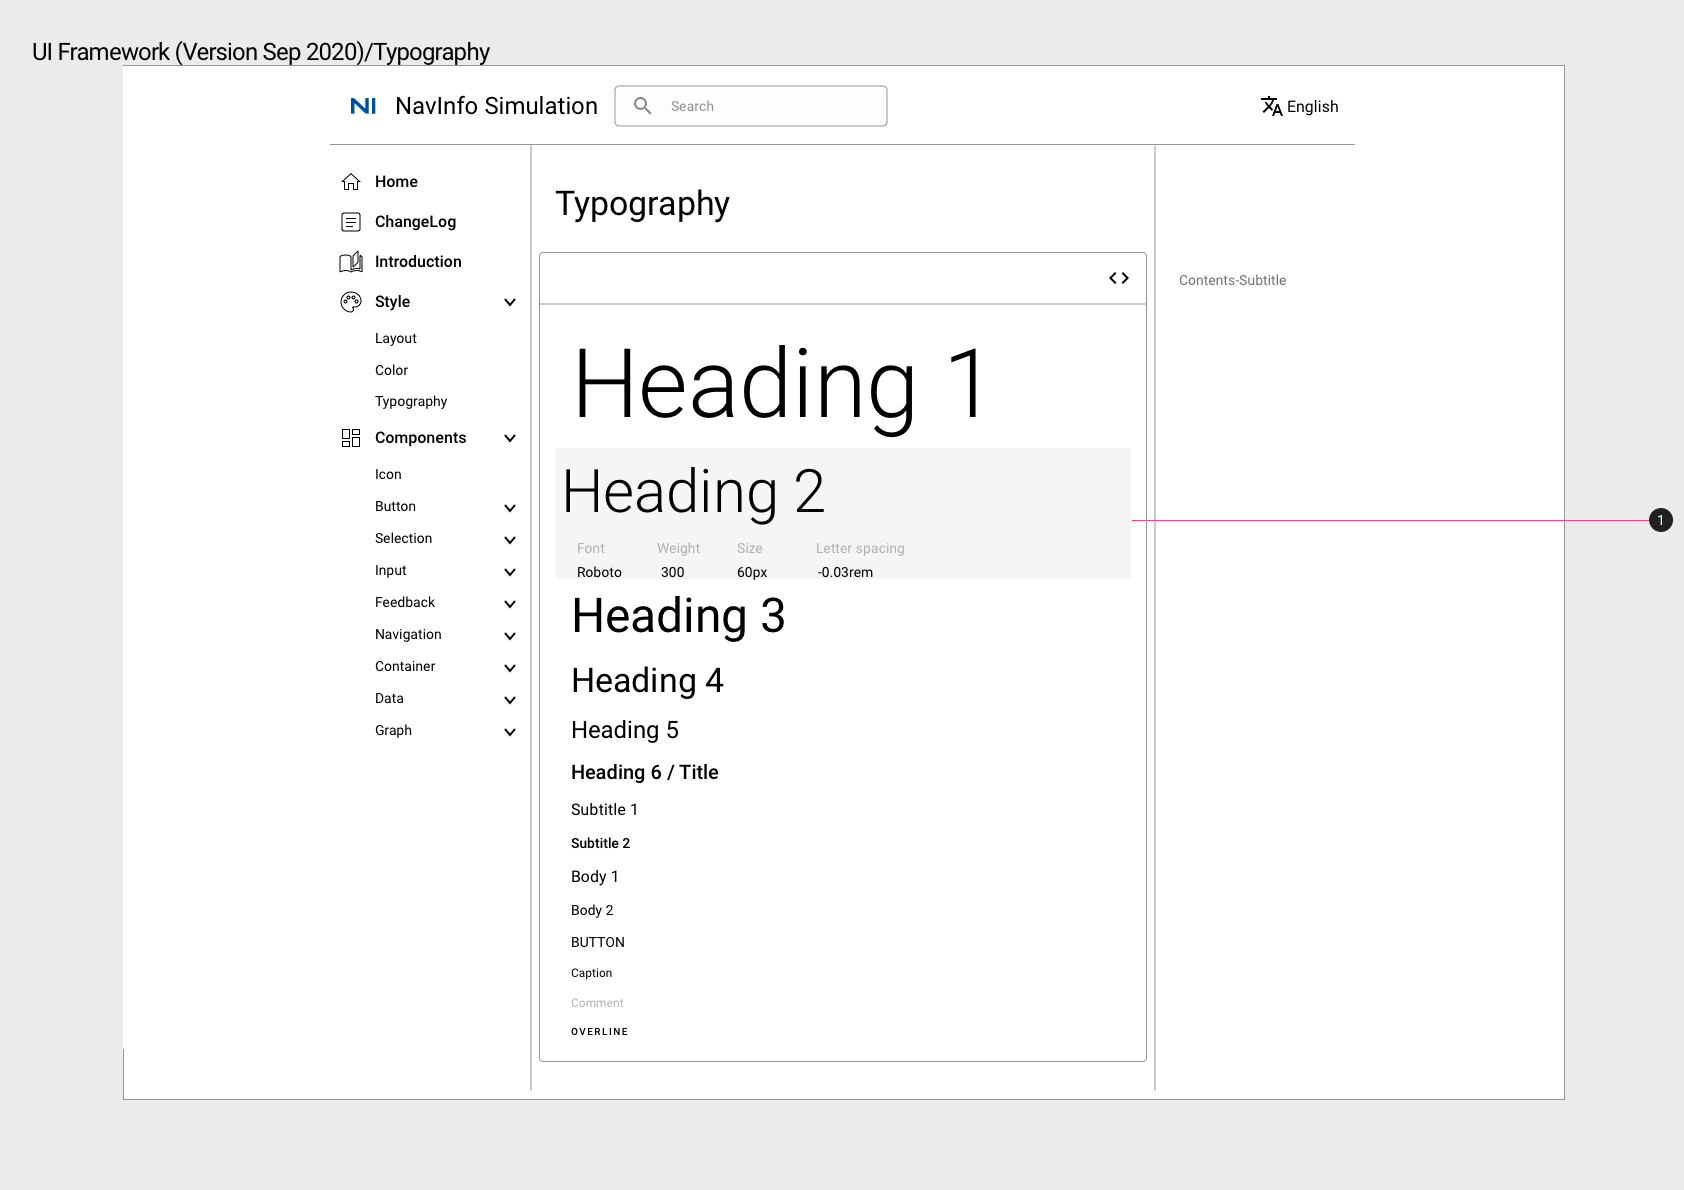
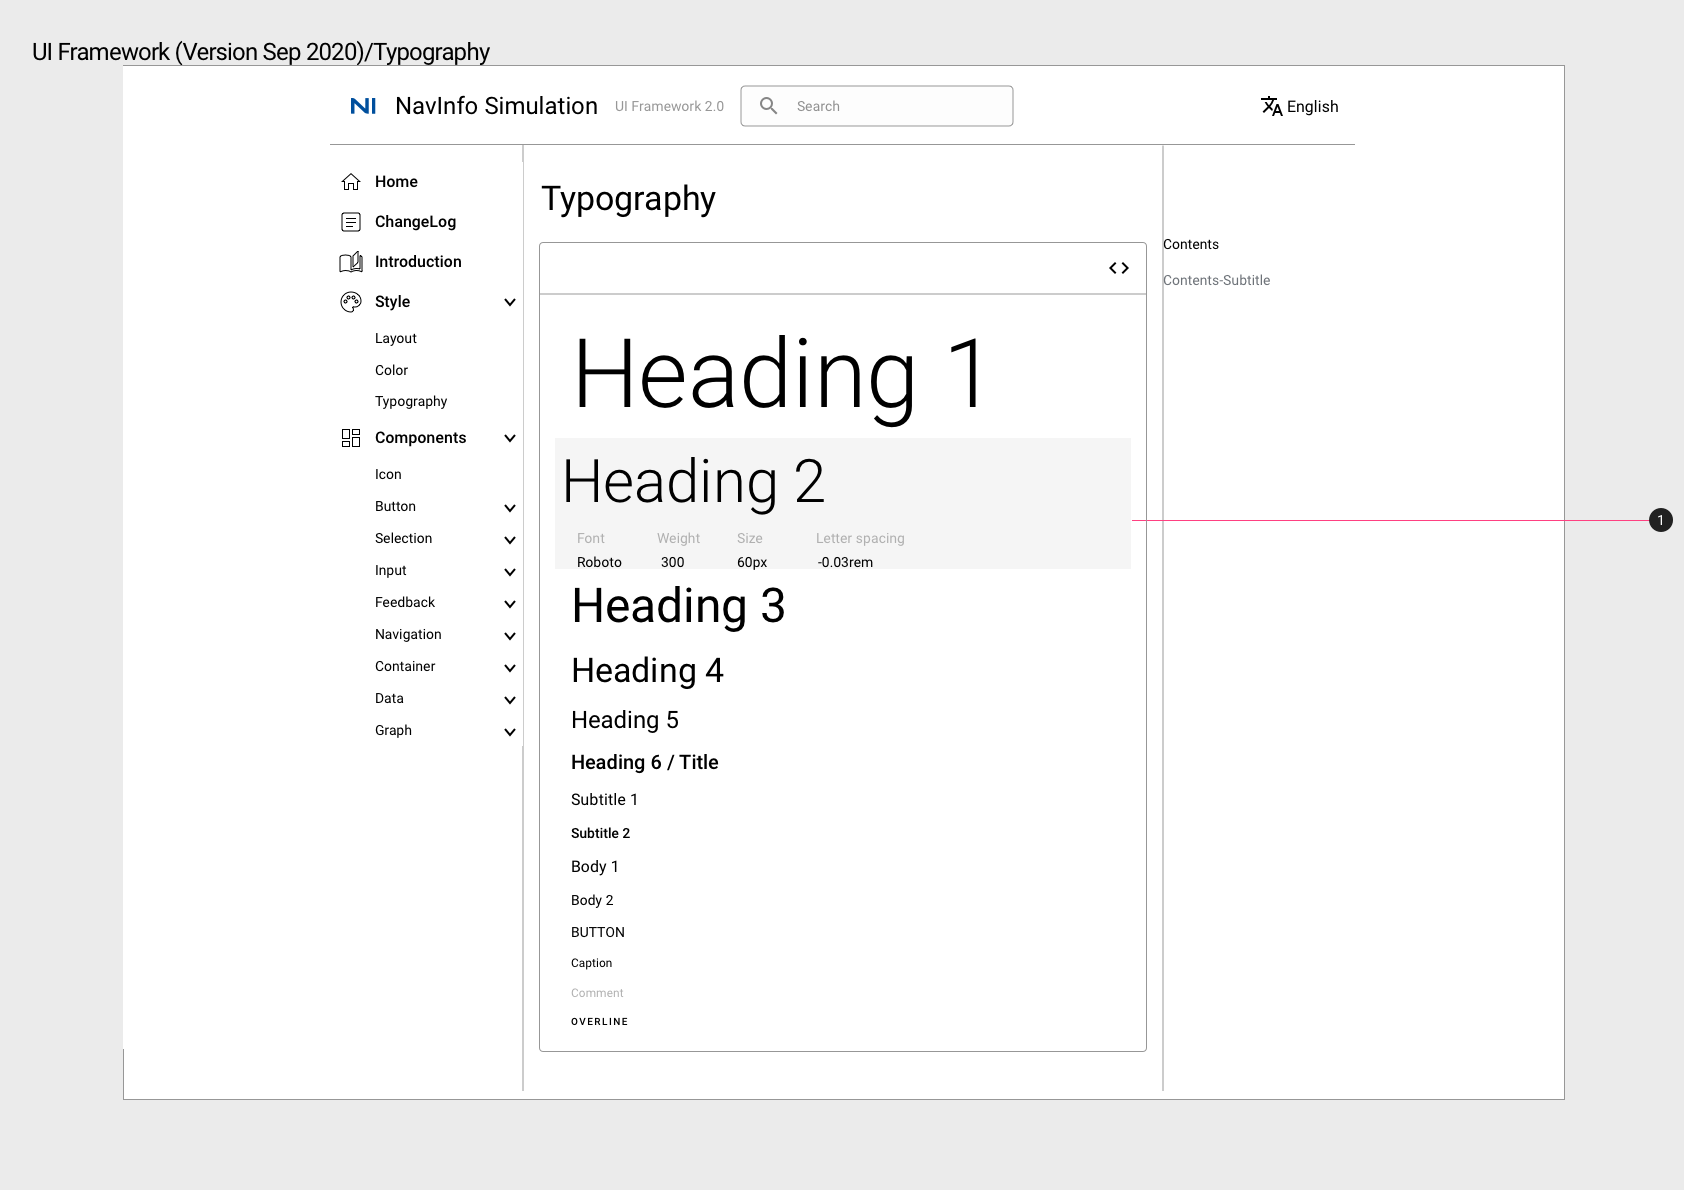
test

diff --git a/site/index.html b/site/index.html
@@ -227,13 +227,6 @@
 </li>
       
         <li class="md-nav__item">
-  <a href="#_4" class="md-nav__link">
-    目录
-  </a>
-  
-</li>
-      
-        <li class="md-nav__item">
   <a href="#typography" class="md-nav__link">
     Typography
   </a>
@@ -301,13 +294,6 @@
 </li>
       
         <li class="md-nav__item">
-  <a href="#_4" class="md-nav__link">
-    目录
-  </a>
-  
-</li>
-      
-        <li class="md-nav__item">
   <a href="#typography" class="md-nav__link">
     Typography
   </a>
@@ -347,31 +333,29 @@
 <li>中间内容显示宽为608px，并与两侧菜单栏相距16px</li>
 </ol>
 <h2 id="_2">布局内容</h2>
-<p><img alt="UI Framework页面布局" src="UI_Framework/Layout-Content.png" /></p>
-<p>各部分字体：</p>
+<p><img alt="UI Framework页面布局" src="UI_Framework/Content.png" /></p>
 <ol>
-<li>Heading 5</li>
-<li>Roboto 16px medium</li>
-<li>Body 2</li>
-<li>Heading 4</li>
-<li>Heading 5</li>
-<li>Body 1</li>
-<li>Body 1</li>
-<li>Body 2 #6D7278</li>
+<li>NI图标：64px*64px</li>
+<li>NavInfo Simulation：Heading 5， 紧靠NI图标</li>
+<li>UI Framwork2.0：Roboto  Regular 14px #979797</li>
+<li>English: Body1, 翻译图标右侧紧靠English</li>
+<li>菜单一级标题：Roboto Medium 16px</li>
+<li>菜单二级标题：Body 2</li>
+<li>内容一级标题：Heading 4</li>
+<li>内容二级标题：Heading 5</li>
+<li>内容字体：Body 1</li>
+<li>目录一级标题：Body 1</li>
+<li>目录二级标题：Body 2 #6D7278</li>
 </ol>
 <h2 id="_3">响应式布局</h2>
 <p><img alt="UI Framework Responsive Layout Grid" src="UI_Framework/Layout-Responsive_Layout_Grid.png" />
 10 column（每个column 88px）， gutter（16px），margin（0）</p>
-<h2 id="_4">目录</h2>
-<p><img alt="UI Framework Content" src="UI_Framework/Content.png" /></p>
 <h2 id="typography">Typography</h2>
-<p><img alt="UI Framework Typography1" src="UI_Framework/Typography1.png" /></p>
-<ol>
-<li>点击图标，当前矩形框内容向下滑，显示代码内容</li>
-<li>文字两侧距矩形框16px，点击Heading显示详细信息</li>
-</ol>
-<p><img alt="UI Framework Typography2" src="UI_Framework/Typography2.png" />
-点击字体展示字体的详细内容，同时其他内容下滑</p>
+<p><img alt="UI Framework Typography1" src="UI_Framework/Typography1.png" />
+1. 点击图标，当前矩形框内容向下滑，显示代码内容
+2. 文字两侧距矩形框16px，点击Heading显示详细信息</p>
+<p><img alt="UI Framework Typography2" src="UI_Framework/Typography2.png" /></p>
+<p>点击字体展示字体的详细内容，同时其他内容下滑</p>
 <ol>
 <li>字体详细信息，背景色为#F5F5F5</li>
 <li>字体：Roboto 14px Regular #B0B0B0</li>
@@ -380,13 +364,11 @@
 <p><img alt="UI Framework Typography3" src="UI_Framework/Typography3.png" />
 1. 点击其他型号字体，上次点击后显示的详细信息收起，同时显示当前点击字体型号的详细信息</p>
 <h2 id="color">Color</h2>
-<p><img alt="UI Framework Color" src="/UI_Framework/Color.png" /></p>
-<ol>
-<li>Primary,Secondary: 字体Subtitle 2</li>
-<li>大写字母P，S：Roboto  Regular 24px #000000</li>
-<li>编号：字体 body 2</li>
-<li>颜色块：58px*58px</li>
-</ol>
+<p><img alt="UI Framework Color" src="/UI_Framework/Color.png" />
+1. Primary,Secondary: 字体Subtitle 2
+2. 大写字母P，S：Roboto  Regular 24px #000000
+3. 编号：字体 body 2
+4. 颜色块：58px*58px</p>
                 
               
               
